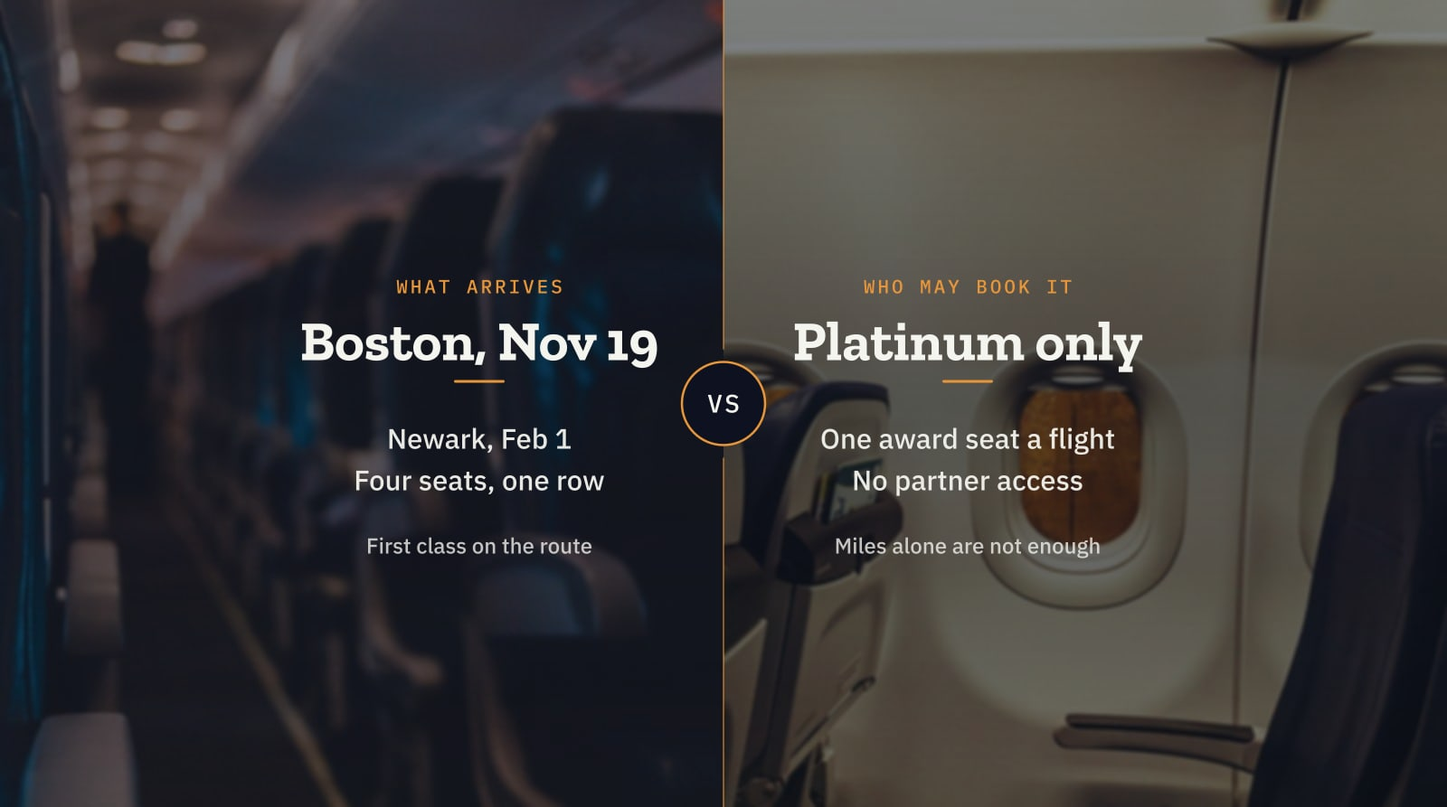
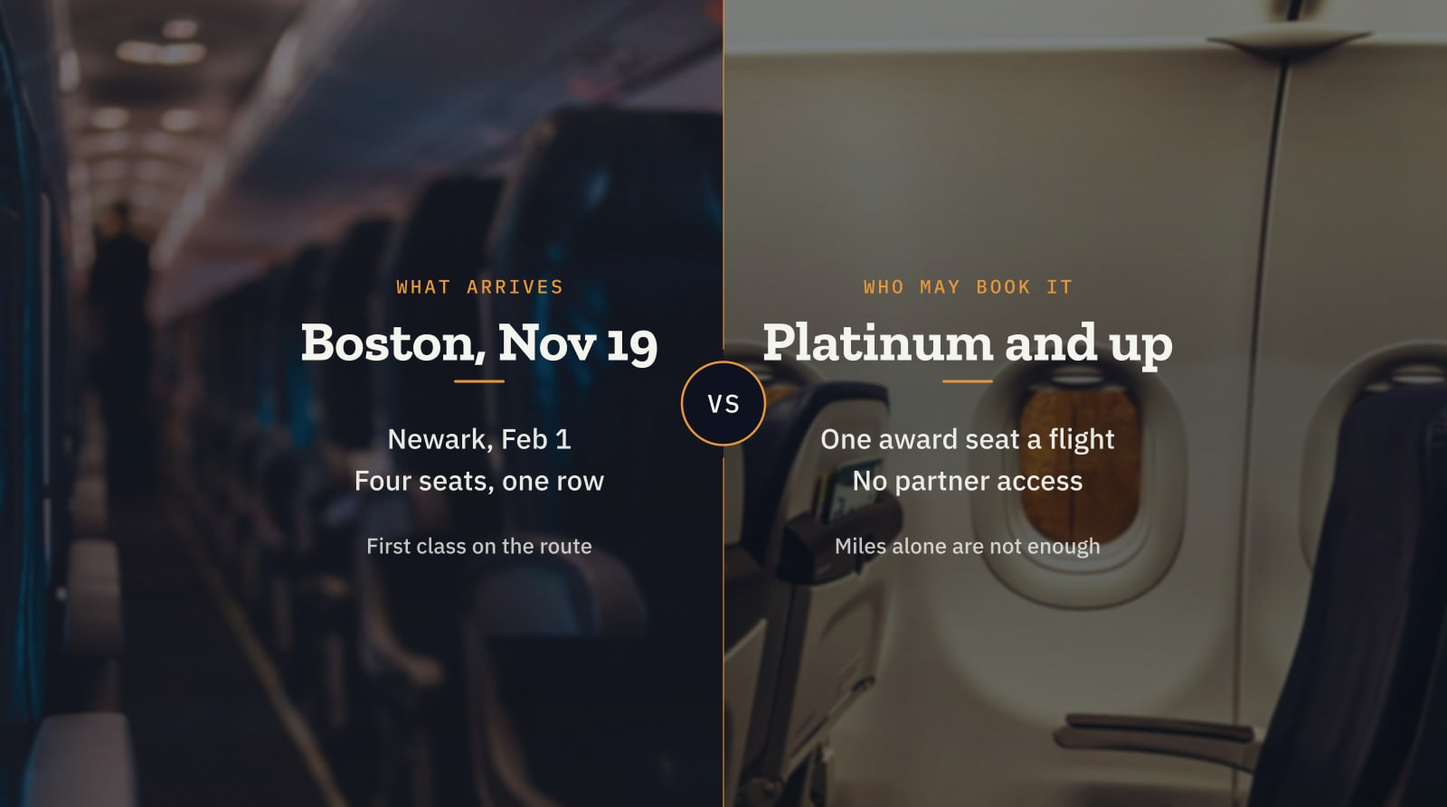
fix(blog): correct the La Premiere post before publishing
Two independent fact-checks (Air France's Oct 27 winter release, its La
Premiere page, Flying Blue's reward and upgrade conditions and the issuer
partner pages; and OMAAT, Upgraded Points, SkyStatus, Roame and others)
agreed on several errors in the Nov 1 draft:

- Boston is not a continuation. It was announced for July 2026, slipped,
  and debuts Nov 19, 2026. The cover had that right; the body did not.
- Flying Blue's own conditions name Platinum AND Ultimate, so the
  "conditions say Platinum, help pages say both" contrast was false.
- The one-reward-seat limit and the "no upgrade from award tickets"
  rule were loose in practice but are reported enforced since Jul/Aug
  2026. The upgrade section described the old state as current.
- Award prices: the 165k-285k range and "most US 220-235k" are 2024
  observations; 2025-26 reports cluster at 280k-350k plus $300-500.
  The 236k + $302 booking and the premium-economy upgrade anecdote could
  not be traced to any source and are gone.
- Citi transfers 1:1 only from premium cards; the cheapest business
  rewards are Light fares since Sep 2026; the partner list now names
  programs that can actually book Air France (Delta, Virgin Atlantic),
  not American and Aeroplan.

Cover: "Platinum only" -> "Platinum and up". The config now records each
photo's Pexels source, since the scratch paths it pointed at are gone.

Changed region(s): [[0.5312, 0.3931, 0.8125, 0.4838]]

diff --git a/src/scripts/assets/blog/de/air-france-la-premiere-with-points.md b/src/scripts/assets/blog/de/air-france-la-premiere-with-points.md
@@ -1,19 +1,19 @@
 SLUG: air-france-la-premiere-with-points
 CATEGORY: deals
 TITLE: Air France First Class in Newark. Einlösen kann sie fast niemand.
-EXCERPT: La Première fliegt ab 1. Februar nach Newark. Flying Blue behält die Prämie den höchsten Statusstufen vor, und der überall wiederholte Upgrade-Trick ist umstritten.
+EXCERPT: La Première fliegt ab 1. Februar nach Newark. Flying Blue behält die Prämie den höchsten Statusstufen vor, und der beliebte Upgrade-Trick ist ausgeschlossen und nun offenbar gesperrt.
 META_TITLE: La Premiere mit Punkten: was wirklich stimmt
-META_DESCRIPTION: Air France First Class kommt im Februar nach Newark. Warum die Prämie an hohen Status gebunden ist und warum das bekannte Upgrade umstritten bleibt.
-COVER_ALT: Geteiltes Titelbild: die La Premiere Kabine mit vier Suiten gegenüber den Status- und Prämienregeln, die den Zugang begrenzen
+META_DESCRIPTION: Air France First Class kommt im Februar nach Newark. Warum die Prämie an hohen Status gebunden ist und was aus dem bekannten Upgrade-Trick wurde.
+COVER_ALT: Geteiltes Titelbild: La Premiere ab 19. Nov. in Boston, ab 1. Feb. in Newark, nur ab Platinum, ein Prämienplatz pro Flug
 ---BODY---
-**Air France setzt seine First Class Kabine La Première ab dem 1. Februar 2027 auf der Strecke Paris nach Newark ein, und für die überwiegende Mehrheit der Punktebesitzer bleibt sie unbuchbar.** Flying Blue beschränkt La Première Prämientickets auf die höchsten Statusstufen und begrenzt sie auf eines pro Flug. Der beliebte Umweg, eine Business-Prämie zu buchen und das Upgrade zu bezahlen, ist in Air Frances eigenen Bedingungen ausgeschlossen, in der Praxis aber umstritten.
+**Air France setzt seine First Class Kabine La Première ab dem 1. Februar 2027 auf der Strecke Paris nach Newark ein, und für die überwiegende Mehrheit der Punktebesitzer bleibt sie unbuchbar.** Flying Blue beschränkt La Première Prämientickets auf Platinum- und Ultimate-Mitglieder und begrenzt sie auf eines pro Flug. Der beliebte Umweg, eine Business-Prämie zu buchen und das Upgrade zu bezahlen, ist in Air Frances eigenen Bedingungen ausgeschlossen, und nach jüngsten Berichten wird dieser Ausschluss inzwischen durchgesetzt.
 
 ## Das Wichtigste in Kürze
 
-- Ab dem 1. Februar 2027 trägt der tägliche Flug von Paris nach New York Newark La Première, womit die Kabine an beiden von Air France bedienten New Yorker Flughäfen präsent ist.
-- Flying Blues Prämienbedingungen beschränken La Première Prämientickets auf die höchsten Stufen und nennen eine Grenze von einem Prämienplatz pro Flug, wobei Fachberichte sagen, dass diese Platzgrenze in der Praxis nicht angewendet wird.
-- Flying Blues Upgrade-Bedingungen sagen, dass Prämientickets nicht für Upgrades in La Première berechtigt sind. Ob das durchgesetzt wird, ist wirklich umstritten, es gibt datierte Berichte von Reisenden, die das Upgrade dennoch gekauft haben.
-- Flying Blue veröffentlicht keine Prämientabelle für La Première. Die Bepreisung ist dynamisch, jede zitierte Meilenzahl ist also eine Beobachtung und kein veröffentlichter Satz.
+- Ab dem 1. Februar 2027 trägt der tägliche Flug von Paris nach New York Newark La Première, womit die Kabine an beiden von Air France bedienten New Yorker Flughäfen präsent ist. Boston bekommt sie vorher, ab dem 19. November 2026.
+- Flying Blues Prämienbedingungen beschränken La Première Prämientickets auf Platinum- und Ultimate-Mitglieder und auf einen Prämienplatz pro Flug. Bis Mitte 2026 waren oft zwei oder drei zu sehen; nach jüngsten Berichten gilt die Grenze nun.
+- Air Frances Upgrade-Regeln sagen, dass Prämientickets nicht für Upgrades in La Première berechtigt sind. Die Durchsetzung war jahrelang lax, doch Berichte vom August 2026 besagen, dass das Upgrade auf Prämientickets nicht mehr angeboten wird.
+- Flying Blue veröffentlicht Einstiegspreise für die übrigen Kabinen, aber keinen für La Première. Jede zitierte Meilenzahl ist also eine Beobachtung und kein veröffentlichter Satz.
 
 Eine First Class Kabine, die eine weitere amerikanische Stadt erreicht, ist für Punktesammler normalerweise eine gute Nachricht. Hier ist sie das überwiegend nicht, und der Abstand zwischen der Berichterstattung und den veröffentlichten Regeln ist groß genug, um ihn sorgfältig zu schließen.
 
@@ -21,37 +21,35 @@ Eine First Class Kabine, die eine weitere amerikanische Stadt erreicht, ist für
 
 Air France baut die La Première Suite über seine umgerüstete Boeing 777-300ER Flotte aus, mit bis zu 25 Flugzeugen, die sie über die Wintersaison 2026 bis 2027 tragen.
 
-Die datierte Nachricht ist Newark: Air Frances eigene Wintermitteilung besagt, dass der tägliche Flug von Paris nach Newark ab dem 1. Februar 2027 mit der Kabine ausgestattet wird. Boston trägt sie in diesem Winter ebenfalls, dazu Miami auf zwei täglichen Flügen und Houston auf einem. Boston verdient eine Anmerkung für alle, die älteren Berichten begegnen: Air France kündigte La Première auf dieser Strecke schon 2025 an, dieser Winter ist also eine Fortsetzung und keine Premiere.
+Die datierte Nachricht ist Newark: Air Frances Wintermitteilung vom 27. Oktober besagt, dass der tägliche Flug von Paris nach Newark ab dem 1. Februar 2027 mit der Kabine ausgestattet wird. Dieselbe Mitteilung nennt den täglichen Flug nach Boston, beide täglichen Flüge nach Miami und den täglichen Flug nach Houston. Boston ist in diesem Winter neu: Air France kündigte die Strecke im Dezember 2025 für einen Start im Juli 2026 an, und die eigene La Première Seite der Airline führt sie nun ab dem 19. November 2026. Sie kommen zu Strecken hinzu, die die Kabine bereits tragen, darunter New York JFK.
 
 Die Kabine besteht aus vier Suiten, die Air France als im vorderen Teil des Flugzeugs gelegen beschreibt. Diese Zahl ist der Grund, warum alle folgenden Zugangsregeln existieren.
 
 ## Die Regel, die die meisten Berichte überspringen
 
-Flying Blues Prämienbedingungen sind unmissverständlich: Nur die höchsten Stufen können Prämientickets für Reisen in La Première nutzen. Wenn Sie keine davon halten, ist die Flying Blue Prämie für Sie unerreichbar, egal wie hoch Ihr Guthaben ist. Die Bedingungen nennen Platinum; Air Frances eigene Hilfeseiten nennen Platinum und Ultimate, wobei Ultimate darüber liegt.
+Flying Blues Prämienbedingungen sind unmissverständlich: Nur Platinum- und Ultimate-Mitglieder können Prämientickets für Reisen in La Première nutzen. Wenn Sie keine dieser Stufen halten, ist die Flying Blue Prämie für Sie unerreichbar, egal wie hoch Ihr Guthaben ist.
 
-Dieselben Bedingungen nennen eine Grenze von einem Prämienticket pro Flug. Behandeln Sie diese mit Vorsicht: Air France hat First Class Prämien vor einigen Jahren so beschränkt, und die Fachberichterstattung seither meldet, die Grenze sei in der Praxis aufgehoben, mit zwei oder drei Prämienplätzen auf einem einzigen Flug. Veröffentlichte Regel und beobachtetes Verhalten stimmen nicht überein.
+Dieselben Bedingungen begrenzen die Verfügbarkeit auf ein Prämienticket pro Flug. Diese Regel hatte eine lockere Phase: Von Ende 2024 bis Mitte 2026 sahen Reisende oft zwei oder drei Prämienplätze auf einem einzigen Flug. Jüngste Berichte besagen, dass dieses Fenster im Juli 2026 geschlossen wurde und Flying Blue nun an einem Prämienplatz pro Flug festhält.
 
-Beim Preis seien Sie mit den kursierenden Zahlen vorsichtig. Flying Blue veröffentlicht keine Prämientabelle für La Première und bepreist dynamisch. Gemeldete einfache Flüge lagen am unteren Ende bei etwa 165.000 Meilen und am oberen bei etwa 285.000, wobei die meisten US-Märkte sich um 220.000 bis 235.000 gruppieren, plus etwas im Bereich von 200 bis 400 $. Eine dokumentierte Buchung kam auf 236.000 Meilen und 302 $. Das sind Beobachtungen, kein Satz.
+Beim Preis seien Sie mit den kursierenden Zahlen vorsichtig. Flying Blue veröffentlicht Einstiegspreise für die übrigen Kabinen und keinen für La Première. Viele Berichte zitieren noch Beobachtungen aus 2024, als einfache Flüge ab den USA bei etwa 165.000 bis 235.000 Meilen lagen. Die seither gemeldeten Werte liegen deutlich höher, meist zwischen etwa 280.000 und 350.000 Meilen, plus rund 300 bis 500 $ an Steuern und Gebühren. Behandeln Sie all das als Beobachtungen, nicht als Satz.
 
 Noch eine Genauigkeit, die sich lohnt. Die Flying Blue *Prämie* ist gesperrt, was nicht ganz dasselbe ist, wie dass die Kabine mit Punkten unerreichbar wäre: Die Reiseportale der Banken verkaufen einen La Première Bartarif für Punkte, zu einem Preis, der die Prämie günstig aussehen lässt. Das ist ein anderes Geschäft, und es steht jedem offen.
 
-## Der Upgrade-Weg, wo die Geschichte unordentlich wird
+## Der Upgrade-Weg, und wie er sich schloss
 
-Der überall wiederholte Umweg lautet, eine Air France Business Class Prämie mit Meilen zu buchen und dann das Upgrade in La Première zu bezahlen. Es lohnt sich darzulegen, was wirklich bekannt ist, denn die Quellen widersprechen sich tatsächlich, und die meisten Beiträge schlagen sich auf eine Seite, ohne das zu sagen.
+Der überall wiederholte Umweg lautet, eine Air France Business Class Prämie mit Meilen zu buchen und dann das Upgrade in La Première zu bezahlen. Es lohnt sich darzulegen, was wirklich bekannt ist, denn das Bild hat sich verändert, und die meisten Beiträge beschreiben noch, wie es früher funktionierte.
 
-**Die veröffentlichte Regel sagt Nein.** Flying Blues Upgrade-Bedingungen besagen, dass Upgrades in La Première nur für Mitglieder mit einem kommerziellen Business Class Ticket möglich sind und dass Prämientickets nicht für Upgrades in La Première berechtigt sind. Air Frances eigene Hilfeseiten wiederholen es. Wörtlich gelesen erledigt das die Fassung des Tricks, die ihn attraktiv macht.
+**Die veröffentlichte Regel sagt Nein.** Air Frances Upgrade-Bedingungen besagen, dass Upgrades in La Première nur Flying Blue Platinum- und Ultimate-Mitgliedern mit einem berechtigten Business Class Ticket offenstehen und dass Prämientickets nicht für Upgrades in La Première berechtigt sind. Wörtlich gelesen erledigt das die Fassung des Tricks, die ihn attraktiv macht, und es setzt auch vor das Upgrade eine Statusschranke.
 
-**Die Praxis scheint zu widersprechen.** Air France führte diese Beschränkung 2023 ein, und die Fachberichterstattung meldete Ende 2024, die Airline habe sie zurückgenommen. Reisende haben datierte Schilderungen veröffentlicht, wonach ihnen beim Online-Check-in ein La Première Upgrade angeboten wurde und sie es kauften, während sie eine Flying Blue Business-Prämie hielten. Zwei angesehene Leitfäden empfahlen den Weg im Laufe von 2026 weiterhin, einer davon beschrieb die Durchsetzung als uneinheitlich.
+**Lange widersprach die Praxis.** Air France führte die Beschränkung für Prämientickets 2023 ein. Dennoch beschrieb ein Leitfaden einer bekannten Fachseite im Dezember 2024 das bezahlte Upgrade als auch auf Prämientickets verfügbar, und Reisende veröffentlichten datierte Schilderungen, wonach sie es beim Online-Check-in kauften, während sie eine Flying Blue Business-Prämie hielten. Zwei angesehene Leitfäden empfahlen den Weg noch Mitte 2026, einer davon beschrieb die Durchsetzung als uneinheitlich.
 
-**Air Frances eigene Unterlagen sind auch nicht deckungsgleich.** Die separaten Bedingungen für kurzfristige bezahlte Upgrades führen Business nach La Première unter den kaufbaren Upgrades auf, ohne Einschränkung zur Ticketart und ohne Statusbedingung. Das ist eine plausible mechanische Erklärung dafür, warum Angebote nach Ermessen immer wieder Prämientickets erreichen: Der Ausschluss steht in einem Dokument und nicht im anderen.
+**Dann wurde er offenbar geschlossen.** Im August 2026 berichteten Reisende, Flying Blue habe bestätigt, dass Upgrades in La Première auf Prämientickets nicht mehr angeboten werden, weder gegen Geld noch gegen Meilen. Eine offizielle Ankündigung haben wir nicht gefunden, und Air Frances separate Bedingungen für kurzfristige bezahlte Upgrades, Stand Oktober 2026, führen Business nach La Première weiterhin ohne Bedingung zur Ticketart auf. Die Unterlagen sind nicht ganz deckungsgleich, doch die jüngsten Berichte weisen alle in dieselbe Richtung.
 
-Die ehrliche Zusammenfassung lautet, dass das dokumentierte Upgrade gesperrt ist, der Zukauf nach Ermessen beim Check-in nicht zuverlässig gesperrt ist und niemand eine Business-Prämie buchen sollte in der *Erwartung*, dass das Upgrade erscheint. Planen Sie die Reise um den gebuchten Business-Platz und behandeln Sie ein Upgrade-Angebot als Zugabe, falls es kommt.
-
-Beachten Sie außerdem, dass das Angebot nach Ermessen nicht auf Mitglieder der höchsten Stufen beschränkt ist. Berichte beschreiben, dass es Reisende unabhängig vom Status erreicht, in mindestens einem Fall aus der Premium Economy.
+Die ehrliche Zusammenfassung lautet, dass niemand eine Business-Prämie buchen sollte in der *Erwartung*, dass das Upgrade erscheint. Planen Sie die Reise um den gebuchten Business-Platz und behandeln Sie ein Upgrade-Angebot als Überraschung, falls je eines kommt.
 
 ## Was Sie stattdessen tun können
 
-Wenn das Ziel das Air France Erlebnis und nicht die bestimmte Kabine ist, ist Business Class mit Meilen zu gewöhnlichen Preisen buchbar, und Flying Blue ist nach seinen eigenen veröffentlichten Partnerseiten zu 1:1 von Chase, Citi und Capital One erreichbar, wobei American Express denselben Kurs auf seiner Seite nennt. Flying Blue fährt oft genug Transferboni, dass es vernünftig ist, auf einen zu warten, wenn Sie die Buchung schon kennen. Das ist eine echte Einlösung, die jedem offensteht.
+Wenn das Ziel das Air France Erlebnis und nicht die bestimmte Kabine ist, ist Business Class mit Flying Blue Meilen für jeden buchbar. Seit September 2026 sind die günstigsten Business-Prämien Light-Tarife mit weniger Leistungen, und die Tarife Standard und Flex kosten mehr Meilen. Flying Blue ist zu 1:1 von Chase, Capital One und American Express erreichbar, außerdem von Citis Premiumkarten; Citis Karten ohne Jahresgebühr übertragen zu einem schlechteren Kurs. Flying Blue fährt oft genug Transferboni, dass es vernünftig ist, auf einen zu warten, wenn Sie die Buchung schon kennen. Das ist eine echte Einlösung, die jedem offensteht.
 
 Wenn das Ziel wirklich First Class über den Atlantik ist, besteht der produktive Schritt darin, nicht mehr auf diese eine Kabine hin zu optimieren. Andere Fluggesellschaften verkaufen Langstrecken-First-Class über Partnerprogramme ohne Statusschranke, und darum lohnt es sich, einen Plan zu bauen. Welche davon, hängt von Ihrem Heimatflughafen, Ihren Daten und Ihrem Besitz ab, und das ist ein Vergleich, den man richtig und nicht im Allgemeinen anstellt.
 
@@ -59,7 +57,7 @@ Und wenn das Ziel diese Kabine um jeden Preis ist, dann ist der klarste Weg der 
 
 ## Warum das immer wieder Menschen erwischt
 
-Sehnsuchtskabinen erzeugen Sehnsuchtsinhalte, und der Abstand zwischen „so fliegt man sie“ und „wer sie fliegen darf“ ist, wo die meiste Enttäuschung wohnt. Das Muster ist von [Phantomplätzen](/blog/phantom-award-space-why-seats-vanish) bekannt: Etwas scheint zu existieren, die Suche scheint es sogar zu bestätigen, und die Beschränkung, die tatsächlich regiert, sitzt dort, wo Sie nicht nachgesehen haben.
+Sehnsuchtskabinen erzeugen Sehnsuchtsinhalte, und der Abstand zwischen „so fliegt man sie“ und „wer sie fliegen darf“ ist, wo die meiste Enttäuschung wohnt. Das Muster ist von [Phantomplätzen](/de/blog/phantom-award-space-why-seats-vanish) bekannt: Etwas scheint zu existieren, die Suche scheint es sogar zu bestätigen, und die Beschränkung, die tatsächlich regiert, sitzt dort, wo Sie nicht nachgesehen haben.
 
 Bei La Première ist die Beschränkung kein Bestand. Vier Suiten sind knapp, aber Knappheit ist normal. Die Beschränkung ist eine Erlaubnis, und eine Erlaubnis zeigt sich nicht in einem Meilenguthaben.
 
@@ -67,26 +65,26 @@ Bei La Première ist die Beschränkung kein Bestand. Vier Suiten sind knapp, abe
 
 Die nützliche Frage lautet fast nie „kann ich diesen bestimmten Platz buchen“. Sie lautet „welche beste Reiseklasse bekomme ich wirklich, an diesen Daten, mit dem, was ich halte“. Das zu beantworten heißt zu wissen, welche Programme Einlösungen hinter Status sperren, welche Partner-First-Class frei verkaufen, was jedes in Meilen und in Bargeld verlangt und welches an Ihren Daten Platz hat.
 
-Das ist die Arbeit, die wir von Hand machen. Ein echter Mensch prüft, was für Sie tatsächlich buchbar ist, und nicht, was theoretisch verfügbar ist, und sagt deutlich, wenn die Antwort Nein lautet. [So funktioniert es](/how-it-works) beschreibt den Ablauf, [Preise](/pricing) nennt die Kosten. Wenn Sie beginnen, kommt der [Grundlagenleitfaden](/blog/how-to-fly-for-free-with-credit-card-points) zuerst, und [Premium-Plätze für die Familie buchen](/blog/book-premium-seats-for-family-with-points) behandelt, was sich ändert, wenn mehr als ein Platz gebraucht wird.
+Das ist die Arbeit, die wir von Hand machen. Ein echter Mensch prüft, was für Sie tatsächlich buchbar ist, und nicht, was theoretisch verfügbar ist, und sagt deutlich, wenn die Antwort Nein lautet. [So funktioniert es](/de/how-it-works) beschreibt den Ablauf, [Preise](/de/pricing) nennt die Kosten. Wenn Sie beginnen, kommt der [Grundlagenleitfaden](/de/blog/how-to-fly-for-free-with-credit-card-points) zuerst, und [Premium-Plätze für die Familie buchen](/de/blog/book-premium-seats-for-family-with-points) behandelt, was sich ändert, wenn mehr als ein Platz gebraucht wird.
 
 ## Häufig gestellte Fragen
 
 ### Kann ich Air France La Première mit Punkten buchen?
 
-Nur wenn Sie Flying Blue Platinum oder Ultimate halten. Die Prämienbedingungen des Programms beschränken La Première Buchungen auf diese Stufen und besagen, dass die Verfügbarkeit streng auf ein Prämienticket pro Flug begrenzt ist. Ein großes Meilenguthaben allein qualifiziert Sie also nicht. Flying Blue veröffentlicht keine Prämientabelle für die Kabine und bepreist dynamisch, behandeln Sie jede konkrete Meilenzahl also als Beobachtung und nicht als Satz, wobei Steuern und Gebühren zusätzlich anfallen.
+Nur wenn Sie Flying Blue Platinum oder Ultimate halten. Die Prämienbedingungen des Programms beschränken La Première Buchungen auf diese Stufen und besagen, dass die Verfügbarkeit streng auf ein Prämienticket pro Flug begrenzt ist. Ein großes Meilenguthaben allein qualifiziert Sie also nicht. Flying Blue veröffentlicht keinen Einstiegspreis für die Kabine, behandeln Sie jede konkrete Meilenzahl also als Beobachtung und nicht als Satz. Jüngste Berichte liegen meist zwischen etwa 280.000 und 350.000 Meilen für einen einfachen Flug, wobei Steuern und Gebühren zusätzlich anfallen.
 
 ### Kann ich ein Business Class Prämienticket auf La Première upgraden?
 
-Die veröffentlichte Antwort lautet Nein und die praktische ist unklar, weshalb die Ratschläge dazu so weit auseinandergehen. Flying Blues Upgrade-Bedingungen sagen, dass Prämientickets nicht für Upgrades in La Première berechtigt sind, und Air Frances Hilfeseiten wiederholen es. Die Airline führte diese Beschränkung aber 2023 ein, die Fachberichterstattung meldete Ende 2024 ihre Rücknahme, Reisende haben seither datierte Schilderungen veröffentlicht, wonach sie das Upgrade auf einer Business-Prämie kauften, und Air Frances eigene Bedingungen für kurzfristige Upgrades führen das Upgrade von Business nach La Première ohne diese Bedingung auf. Buchen Sie keine Business-Prämie in der Erwartung des Upgrades, behandeln Sie es als Möglichkeit und nicht als Plan.
+Die veröffentlichte Antwort lautet Nein, und nach jüngsten Berichten entspricht die Praxis ihr inzwischen. Air Frances Upgrade-Bedingungen sagen, dass Prämientickets nicht für Upgrades in La Première berechtigt sind, und beschränken das Upgrade auf Platinum- und Ultimate-Mitglieder mit einem berechtigten Business-Ticket. Nach Einführung der Beschränkung 2023 war die Durchsetzung jahrelang lax, Reisende berichteten von bezahlten Upgrades auf Business-Prämien beim Check-in, doch im August 2026 berichteten Reisende, Flying Blue habe bestätigt, dass das Upgrade für Prämientickets nicht mehr angeboten wird, weder gegen Geld noch gegen Meilen. Buchen Sie keine Business-Prämie in der Erwartung des Upgrades.
 
 ### Kann ich Partnermeilen für La Première nutzen?
 
-Nicht als Prämie. Flying Blue veröffentlicht keinen Partnerweg nach La Première, und jeder Fachleitfaden, der die Kabine behandelt, berichtet, dass Air France überhaupt keine La Première Prämienplätze an Partnerprogramme freigibt. Das schließt American, Virgin Atlantic, Air Canada Aeroplan und die übrigen aus, was ungewöhnlich ist: Die meisten Langstrecken-First-Class-Kabinen sind über mindestens einen Partner buchbar, und so erreichen Punktereisende sie normalerweise. Die Ausnahme ist überhaupt keine Prämie, denn die Reiseportale der Banken verkaufen den Bartarif für Punkte, wenn Sie ein enormes Guthaben und keine bessere Verwendung dafür haben.
+Nicht als Prämie. Flying Blue veröffentlicht keinen Partnerweg nach La Première, und jeder Fachleitfaden, der die Kabine behandelt, berichtet, dass Air France überhaupt keine La Première Prämienplätze an Partnerprogramme freigibt. Das schließt Delta SkyMiles, Virgin Atlantic Flying Club und die übrigen Programme aus, die Air France Business Class buchen können, was ungewöhnlich ist: Die meisten Langstrecken-First-Class-Kabinen sind über mindestens einen Partner buchbar, und so erreichen Punktereisende sie normalerweise. Die Ausnahme ist überhaupt keine Prämie, denn die Reiseportale der Banken verkaufen den Bartarif für Punkte, wenn Sie ein enormes Guthaben und keine bessere Verwendung dafür haben.
 
 ### Wann fliegt La Première nach Newark?
 
-Air Frances Mitteilung für den Winter 2026 bis 2027 besagt, dass der tägliche Flug von Paris Charles de Gaulle nach New York Newark ab dem 1. Februar 2027 mit La Première ausgestattet wird, womit die Kabine an beiden von der Airline bedienten New Yorker Flughäfen vertreten ist. Boston, Miami und Houston tragen sie in derselben Saison ebenfalls. Flugzeugzuweisungen und Flugpläne ändern sich, prüfen Sie also den konkreten Flug, bevor Sie die Kabine voraussetzen.
+Air Frances Mitteilung für den Winter 2026 bis 2027 besagt, dass der tägliche Flug von Paris Charles de Gaulle nach New York Newark ab dem 1. Februar 2027 mit La Première ausgestattet wird, womit die Kabine an beiden von der Airline bedienten New Yorker Flughäfen vertreten ist. Boston bekommt sie ab dem 19. November 2026, und Miami und Houston tragen sie in derselben Saison ebenfalls. Flugzeugzuweisungen und Flugpläne ändern sich, prüfen Sie also den konkreten Flug, bevor Sie die Kabine voraussetzen.
 
 ## Starten Sie Ihre Suche
 
-Wenn First Class über den Atlantik das Ziel ist, lautet die Frage, die sich zu beantworten lohnt, welche Sie tatsächlich buchen können, und nicht, welche auf Fotos am besten aussieht. [Starten Sie Ihre Suche](/individual): Nennen Sie uns Ihre Daten, Ihren Heimatflughafen und was Sie halten, und ein Spezialist sagt Ihnen, welche beste Reiseklasse Ihnen wirklich offensteht und was sie kostet.
+Wenn First Class über den Atlantik das Ziel ist, lautet die Frage, die sich zu beantworten lohnt, welche Sie tatsächlich buchen können, und nicht, welche auf Fotos am besten aussieht. [Starten Sie Ihre Suche](/de/individual): Nennen Sie uns Ihre Daten, Ihren Heimatflughafen und was Sie halten, und ein Spezialist sagt Ihnen, welche beste Reiseklasse Ihnen wirklich offensteht und was sie kostet.

diff --git a/src/scripts/assets/blog/air-france-la-premiere-with-points.md b/src/scripts/assets/blog/air-france-la-premiere-with-points.md
@@ -1,19 +1,19 @@
 SLUG: air-france-la-premiere-with-points
 CATEGORY: deals
 TITLE: Air France First Class Reaches Newark. Few Can Redeem for It.
-EXCERPT: La Première arrives at Newark on February 1. Flying Blue reserves the award for its top tiers, and the upgrade workaround everyone repeats is contested by the airline's own pages.
+EXCERPT: La Première arrives at Newark on February 1. Flying Blue reserves the award for its top tiers, and the popular upgrade workaround is excluded by its rules and now reportedly enforced.
 META_TITLE: La Premiere With Points: What's Really True
-META_DESCRIPTION: Air France first class reaches Newark in February. Why the award is gated to top-tier members, and why the upgrade workaround everyone repeats is contested.
-COVER_ALT: Split cover: the four suite La Premiere cabin against the status and reward ticket rules that gate access
+META_DESCRIPTION: Air France first class reaches Newark in February. Why the award is gated to top-tier members, and what happened to the upgrade workaround everyone repeats.
+COVER_ALT: Split cover: La Premiere reaches Boston Nov 19 and Newark Feb 1, but only Platinum and up may book, one award seat a flight
 ---BODY---
-**Air France puts its La Première first class cabin on the Paris to Newark route from February 1, 2027, and for the overwhelming majority of points holders it stays unbookable.** Flying Blue restricts La Première reward tickets to Platinum and Ultimate members and limits them to one per flight. The popular workaround, booking a business award and paying to upgrade, is excluded by Air France's own published conditions.
+**Air France puts its La Première first class cabin on the Paris to Newark route from February 1, 2027, and for the overwhelming majority of points holders it stays unbookable.** Flying Blue restricts La Première reward tickets to Platinum and Ultimate members and limits them to one per flight. The popular workaround, booking a business award and paying to upgrade, is excluded by Air France's own published conditions, and recent reports say that exclusion is now enforced.
 
 ## Key takeaways
 
-- From February 1, 2027 the daily Paris to New York Newark flight carries La Première, giving the cabin a presence at both New York airports Air France serves.
-- Flying Blue's reward conditions restrict La Première award tickets to its top tiers and publish a limit of one reward seat per flight, though specialist reporting says that seat limit is not applied in practice.
-- Flying Blue's upgrade conditions say reward tickets are not eligible for upgrades to La Première. Whether that is enforced is genuinely contested, with dated reports of travelers buying the upgrade anyway.
-- Flying Blue publishes no La Première award chart. Pricing is dynamic, so any single mileage figure you see quoted is an observation, not a published rate.
+- From February 1, 2027 the daily Paris to New York Newark flight carries La Première, giving the cabin a presence at both New York airports Air France serves. Boston gets it first, from November 19, 2026.
+- Flying Blue's reward conditions restrict La Première award tickets to Platinum and Ultimate members and limit them to one reward seat per flight. Two or three were often seen until mid-2026; recent reports say the limit is now applied.
+- Air France's upgrade rules say reward tickets are not eligible for La Première upgrades. Enforcement was loose for years, but reports from August 2026 say the upgrade is no longer offered on award tickets.
+- Flying Blue publishes starting prices for its other cabins and none for La Première, so any mileage figure you see quoted is an observation, not a published rate.
 
 A first class cabin reaching another American city is normally good news for points people. Here it mostly is not, and the gap between the coverage and the published rules is wide enough to be worth closing carefully.
 
@@ -21,37 +21,35 @@ A first class cabin reaching another American city is normally good news for poi
 
 Air France has been expanding the La Première suite across its retrofitted Boeing 777-300ER fleet, with up to 25 aircraft carrying it over the 2026 to 2027 winter season.
 
-The dated piece of news is Newark: Air France's own winter release says that from February 1, 2027 the daily Paris to Newark flight will be equipped with the cabin. Boston also carries it this winter, as do Miami on two daily flights and Houston on one. Boston is worth a note for anyone reading older coverage: Air France announced La Première on that route back in 2025, so this winter is a continuation rather than a debut.
+The dated piece of news is Newark: Air France's winter release, published on October 27, says that from February 1, 2027 the daily Paris to Newark flight will be equipped with the cabin. The same release adds the daily Boston flight, both daily Miami flights and the daily Houston flight. Boston is new this winter: Air France first announced it in December 2025 for a July 2026 start, and the airline's own La Première page now lists it from November 19, 2026. These join routes that already carry the cabin, New York JFK among them.
 
 The cabin is four suites, which Air France describes as located at the front of the aircraft. That number is the reason every access rule below exists.
 
 ## The rule most coverage skips
 
-Flying Blue's reward ticket conditions are explicit: only its highest tiers can use reward tickets to book travel in La Première. If you do not hold one, the Flying Blue award is unavailable to you whatever your balance. The conditions name Platinum; Air France's own help pages say Platinum and Ultimate, Ultimate sitting above it.
+Flying Blue's reward ticket conditions are explicit: only Platinum and Ultimate members can use reward tickets to book travel in La Première. If you do not hold one of those tiers, the Flying Blue award is unavailable to you whatever your balance.
 
-The same conditions publish a limit of one reward ticket per flight. Treat that one with care: Air France restricted first class awards in this way some years ago, and specialist coverage since has reported the limit reversed in practice, with two or three award seats seen on a single flight. The published rule and the observed behaviour do not match.
+The same conditions limit availability to one reward ticket per flight. That rule had a loose stretch: from late 2024 into mid-2026, travelers often saw two or three award seats on a single flight. Recent reporting says that window closed in July 2026 and that Flying Blue now holds to one reward seat per flight.
 
-On price, be careful with the numbers in circulation. Flying Blue publishes no La Première award chart and prices dynamically. Reported one-ways have run from roughly 165,000 miles at the low end to about 285,000 at the high, with most US markets clustering around 220,000 to 235,000 plus something in the region of $200 to $400. One documented booking came to 236,000 miles and $302. Those are observations, not a rate.
+On price, be careful with the numbers in circulation. Flying Blue publishes starting prices for its other cabins and none for La Première. Much of the coverage still quotes observations from 2024, when one-ways from the US ran from about 165,000 to 235,000 miles. Data points reported since are much higher, mostly between about 280,000 and 350,000 miles, plus roughly $300 to $500 in taxes and charges. Treat all of them as observations, not a rate.
 
 One more precision worth having. The Flying Blue *award* is gated, which is not quite the same as the cabin being unreachable with points: the bank travel portals will sell a La Première cash fare for points, at a price that makes the award look cheap. That is a different transaction, and it is available to anyone.
 
-## The upgrade route, where the story gets messy
+## The upgrade route, and how it closed
 
-The workaround repeated everywhere is to book an Air France business class award with miles, then pay to upgrade into La Première. It is worth setting out what is actually known, because the sources genuinely conflict and most write-ups pick a side without saying so.
+The workaround repeated everywhere is to book an Air France business class award with miles, then pay to upgrade into La Première. It is worth setting out what is actually known, because the picture has changed and most write-ups still describe how it used to work.
 
-**The published rule says no.** Flying Blue's upgrade conditions state that upgrades to La Première are only possible for members holding a commercial business class ticket, and that reward tickets are not eligible for upgrades to La Première. Air France's own help pages repeat it. Read literally, that kills the version of the hack that makes it attractive.
+**The published rule says no.** Air France's upgrade conditions say La Première upgrades are only available to Flying Blue Platinum and Ultimate members travelling on an eligible business class ticket, and that reward tickets are not eligible for upgrades to La Première. Read literally, that kills the version of the hack that makes it attractive, and it puts a status gate on the upgrade as well.
 
-**Practice appears to disagree.** Air France introduced that restriction in 2023, and specialist coverage reported in late 2024 that the airline had reversed it. Travelers have posted dated accounts of being offered, and buying, a La Première upgrade at online check-in while holding a Flying Blue business award. Two well-regarded guides still recommended the route during 2026, one of them describing enforcement as inconsistent.
+**For a long time, practice disagreed.** Air France introduced the award-ticket restriction in 2023. Yet a December 2024 guide from a well-known specialist site described the paid upgrade as available on award tickets too, and travelers posted dated accounts of buying it at online check-in while holding a Flying Blue business award. Two well-regarded guides still recommended the route in mid-2026, one of them describing enforcement as inconsistent.
 
-**Air France's own paperwork is not aligned either.** Its separate terms for last-minute paid upgrades list business to La Première among the upgrades available for purchase, with no ticket-type restriction and no status condition attached. That is a plausible mechanical explanation for why discretionary offers keep reaching award tickets: the exclusion lives in one document and not the other.
+**Then it reportedly closed.** In August 2026, travelers reported Flying Blue confirming that upgrades into La Première are no longer offered on award tickets, in cash or in miles. We have found no official announcement, and Air France's separate terms for last-minute paid upgrades, dated October 2026, still list business to La Première without a ticket-type condition. The paperwork is not fully aligned, but the recent reports all point the same way.
 
-The honest summary is that the documented upgrade is gated, the discretionary buy-up offered at check-in is not reliably gated, and nobody should book a business award *expecting* the upgrade to appear. Plan the trip around the business seat you booked, and treat an upgrade offer as a bonus if it arrives.
-
-Note also that the discretionary offer is not confined to top-tier members. Reports describe it reaching travelers regardless of status, and in at least one case from premium economy.
+The honest summary is that nobody should book a business award *expecting* the upgrade to appear. Plan the trip around the business seat you booked, and treat an upgrade offer as a surprise if one ever arrives.
 
 ## What to do instead
 
-If the goal is the Air France experience rather than the specific cabin, business class is bookable with miles at ordinary prices, and Flying Blue is reachable at 1:1 from Chase, Citi and Capital One on its own published partner pages, with American Express listing the same rate on its side. Flying Blue runs transfer bonuses often enough that waiting for one is reasonable when you already know the booking. That is a real redemption available to anyone.
+If the goal is the Air France experience rather than the specific cabin, business class is bookable with Flying Blue miles by anyone. Since September 2026 the cheapest business rewards are Light fares with fewer inclusions, and the Standard and Flex fares cost more miles. Flying Blue is reachable at 1:1 from Chase, Capital One and American Express, and from Citi's premium cards; Citi's no-fee cards transfer at a lower rate. Flying Blue runs transfer bonuses often enough that waiting for one is reasonable when you already know the booking. That is a real redemption available to anyone.
 
 If the goal is genuinely first class across the Atlantic, the productive move is to stop optimising for this particular cabin. Other carriers sell long-haul first class through partner programs without a status gate, and those are worth building a plan around. Which one depends on your home airport, your dates and what you hold, which is a comparison to make properly rather than in the abstract.
 
@@ -73,19 +71,19 @@ That is the work we do by hand. A real person checks what is actually bookable f
 
 ### Can I book Air France La Première with points?
 
-Only if you hold Flying Blue Platinum or Ultimate status. The program's reward ticket conditions restrict La Première bookings to those tiers and state that availability is strictly limited to one reward ticket per flight, so a large mileage balance alone does not qualify you. Flying Blue publishes no award chart for the cabin and prices rewards dynamically, so treat any specific mileage figure you see as an observation rather than a rate, with taxes and charges payable on top.
+Only if you hold Flying Blue Platinum or Ultimate status. The program's reward ticket conditions restrict La Première bookings to those tiers and state that availability is strictly limited to one reward ticket per flight, so a large mileage balance alone does not qualify you. Flying Blue publishes no starting price for the cabin, so treat any specific mileage figure you see as an observation rather than a rate. Recent reports mostly fall between about 280,000 and 350,000 miles one way, with taxes and charges payable on top.
 
 ### Can I upgrade a business class award ticket to La Première?
 
-The published answer is no and the practical answer is unclear, which is why advice on this varies so much. Flying Blue's upgrade conditions say reward tickets are not eligible for upgrades to La Première, and Air France's help pages repeat it. But the airline introduced that restriction in 2023, specialist coverage reported it reversed in late 2024, travelers have posted dated accounts of buying the upgrade on a business award since, and Air France's own last-minute upgrade terms list the business to La Première upgrade with no such condition. Do not book a business award expecting the upgrade; treat it as a possibility rather than a plan.
+The published answer is no, and recent reports say practice now matches it. Air France's upgrade conditions say reward tickets are not eligible for upgrades to La Première, and limit the upgrade to Platinum and Ultimate members on an eligible business ticket. Enforcement was loose for years after the restriction arrived in 2023, with travelers reporting paid upgrades on business awards at check-in, but in August 2026 travelers reported Flying Blue confirming that award tickets are no longer offered the upgrade, in cash or in miles. Do not book a business award expecting it.
 
 ### Can I use partner miles to book La Première?
 
-Not as an award. Flying Blue publishes no partner route into La Première, and every specialist guide that covers the cabin reports that Air France releases no La Première award space to partner programs at all. That rules out American, Virgin Atlantic, Air Canada Aeroplan and the rest, which is unusual: most long-haul first class cabins are bookable through at least one partner, and that is how points travelers normally reach them. The exception is not an award at all, since the bank travel portals will sell the cash fare for points if you have an enormous balance and no better use for it.
+Not as an award. Flying Blue publishes no partner route into La Première, and every specialist guide that covers the cabin reports that Air France releases no La Première award space to partner programs at all. That rules out Delta SkyMiles, Virgin Atlantic Flying Club and the other programs that can book Air France business class, which is unusual: most long-haul first class cabins are bookable through at least one partner, and that is how points travelers normally reach them. The exception is not an award at all, since the bank travel portals will sell the cash fare for points if you have an enormous balance and no better use for it.
 
 ### When does La Première start flying to Newark?
 
-Air France's winter 2026 to 2027 release says the daily Paris Charles de Gaulle to New York Newark flight will be equipped with La Première from February 1, 2027, putting the cabin at both New York airports the airline serves. Boston, Miami and Houston also carry it during the same season. Aircraft assignments and schedules change, so check the specific flight before assuming the cabin is on it.
+Air France's winter 2026 to 2027 release says the daily Paris Charles de Gaulle to New York Newark flight will be equipped with La Première from February 1, 2027, putting the cabin at both New York airports the airline serves. Boston gets it from November 19, 2026, and Miami and Houston also carry it during the same season. Aircraft assignments and schedules change, so check the specific flight before assuming the cabin is on it.
 
 ## Start your search
 
